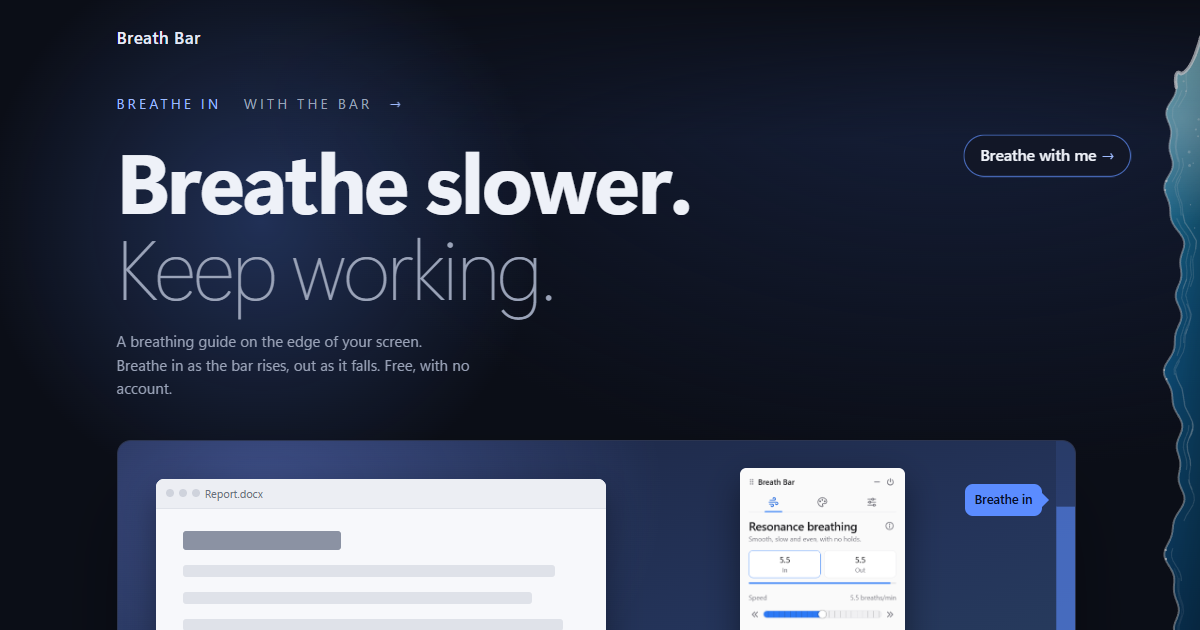
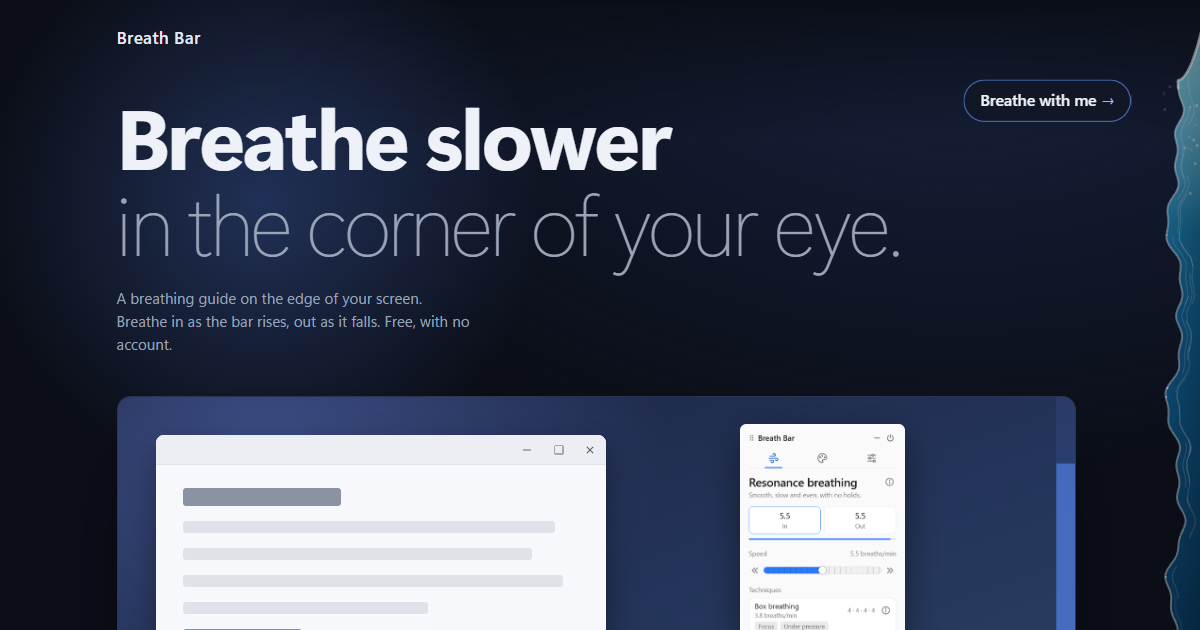
Home: 'Breathe slower in the corner of your eye.'
New headline and sharing title, the label moved up clear of the text,
and the sharing image rendered with the new headline.

diff --git a/index.html b/index.html
@@ -30,14 +30,14 @@
   }
   </script>
   <meta property="og:url" content="https://breathbar.app/">
-  <meta property="og:title" content="Breath Bar: slow your breathing without stopping work">
+  <meta property="og:title" content="Breath Bar: breathe slower in the corner of your eye">
   <meta property="og:description" content="A thin bar on the edge of your screen rises and falls at a calm pace. Glance at it, breathe with it, keep working. Free for Windows.">
-  <meta property="og:image" content="https://breathbar.app/og.png?v=2">
+  <meta property="og:image" content="https://breathbar.app/og.png?v=3">
   <meta property="og:image:width" content="1200">
   <meta property="og:image:height" content="630">
   <meta name="twitter:card" content="summary_large_image">
   <meta name="theme-color" content="#0b0e17">
-  <link rel="stylesheet" href="home.css?v=20261117r">
+  <link rel="stylesheet" href="home.css?v=20261117s">
 </head>
 <body>
   <p class="bar-label" id="bar-label" data-level aria-hidden="true">Breathe with me <span>→</span></p>
@@ -51,7 +51,7 @@
 
     <section class="hero" data-section="hero">
       <div class="halo" data-level aria-hidden="true"></div>
-      <h1>Breathe slower. <span>Keep working.</span></h1>
+      <h1>Breathe slower<br><span>in the corner of your eye.</span></h1>
       <div class="row">
         <div class="get-row">
           <a class="btn" href="#" data-get="windows">Download for Windows</a>
@@ -147,6 +147,6 @@
 
   <script src="scene.js"></script>
   <script src="scenes/wave.js"></script>
-  <script src="site.js?v=20261117r"></script>
+  <script src="site.js?v=20261117s"></script>
 </body>
 </html>

diff --git a/home.css b/home.css
@@ -126,7 +126,7 @@ button { font: inherit; color: inherit; cursor: pointer; }
   .cue { font-size: 14px; letter-spacing: 0.22em; text-transform: uppercase; color: var(--accent-ink); white-space: nowrap; }
   .cue .now { display: inline-block; min-width: 8.6em; }
   /* A short label beside the bar, until the visitor scrolls on. */
-  .bar-label { --grow: calc(0.9 + var(--level, 0) * 0.25); --rise: calc((0.5 - var(--level, 0)) * 36px); position: fixed; top: 34%; right: 70px; z-index: 6; margin: 0; padding: 7px 14px; font-size: 14px; font-weight: 600; white-space: nowrap; color: var(--ink); background: rgba(18, 23, 38, 0.88); border: 1px solid color-mix(in srgb, var(--accent) calc(25% + var(--level, 0) * 45%), var(--line)); border-radius: 999px; pointer-events: none; transform: translateY(var(--rise)) scale(var(--grow)); transform-origin: right center; transition: opacity 0.4s ease; }
+  .bar-label { --grow: calc(0.9 + var(--level, 0) * 0.25); --rise: calc((0.5 - var(--level, 0)) * 36px); position: fixed; top: 15%; right: 70px; z-index: 6; margin: 0; padding: 7px 14px; font-size: 14px; font-weight: 600; white-space: nowrap; color: var(--ink); background: rgba(18, 23, 38, 0.88); border: 1px solid color-mix(in srgb, var(--accent) calc(25% + var(--level, 0) * 45%), var(--line)); border-radius: 999px; pointer-events: none; transform: translateY(var(--rise)) scale(var(--grow)); transform-origin: right center; transition: opacity 0.4s ease; }
   .bar-label span { color: var(--accent-ink); }
   .bar-label.gone { opacity: 0; }
   @media (max-width: 600px) {
